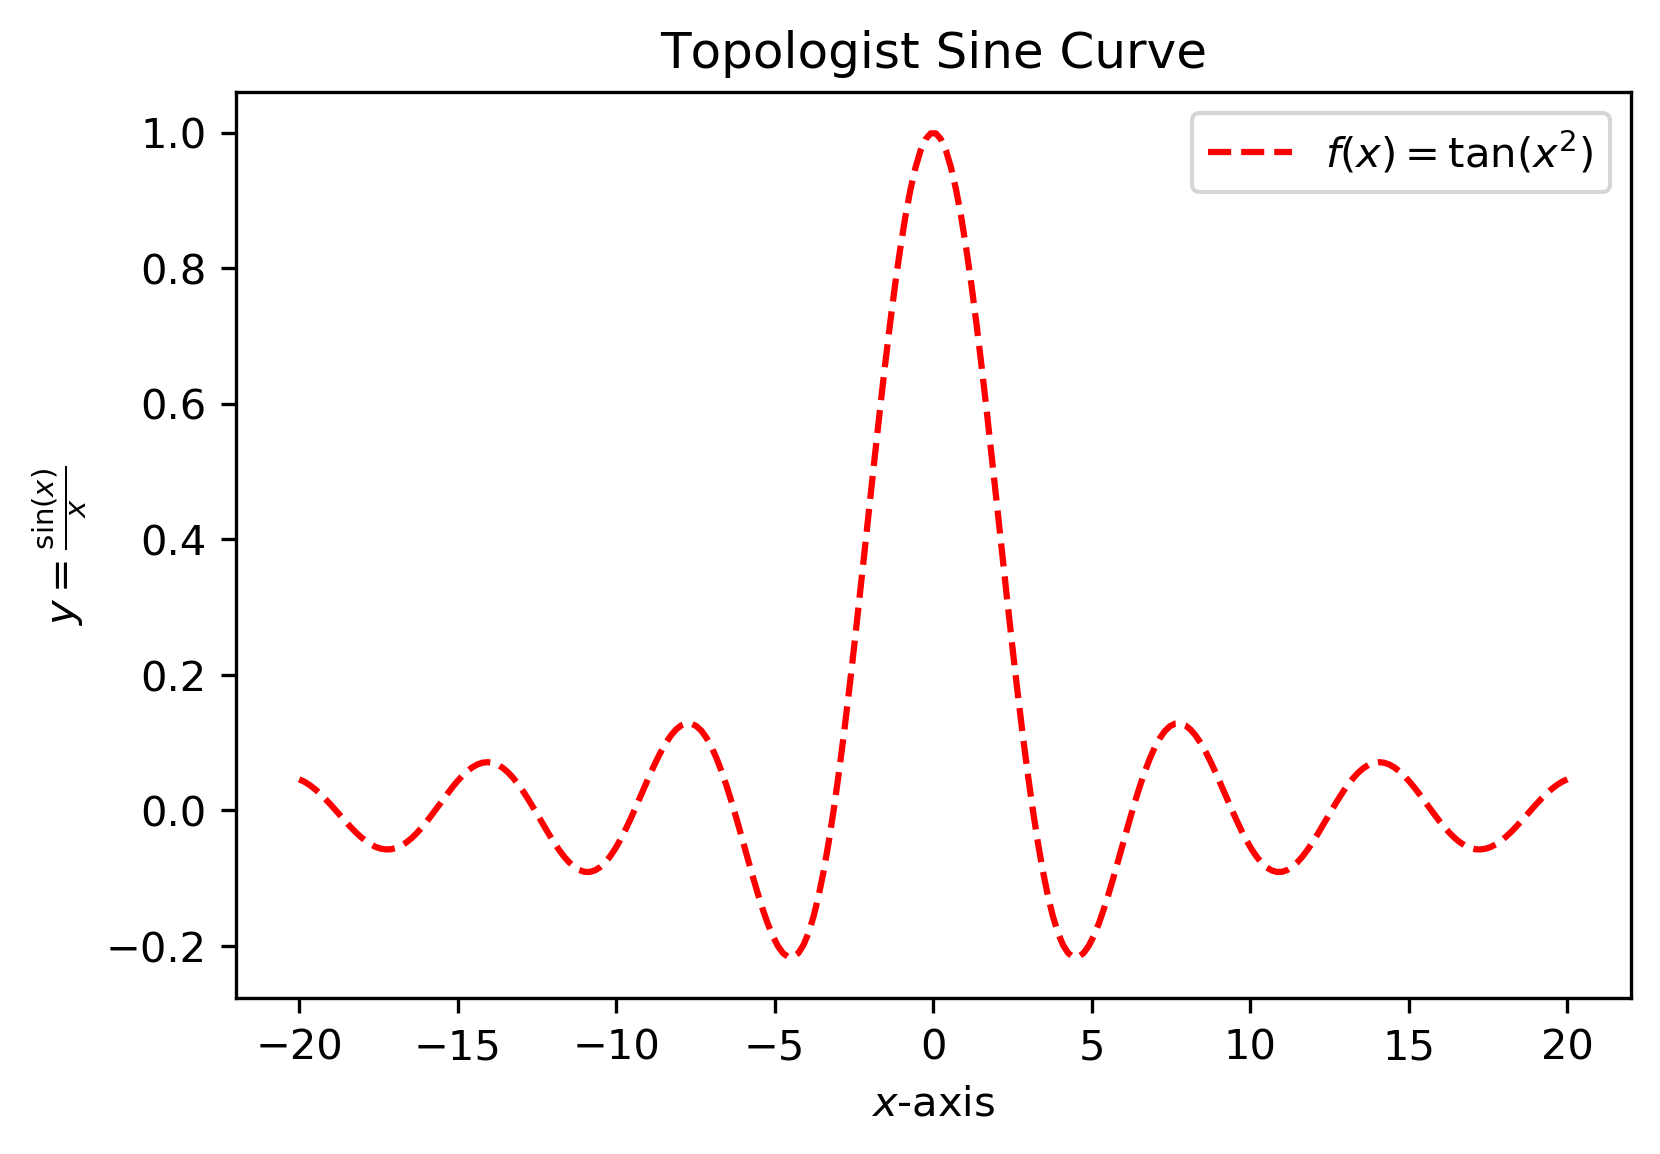
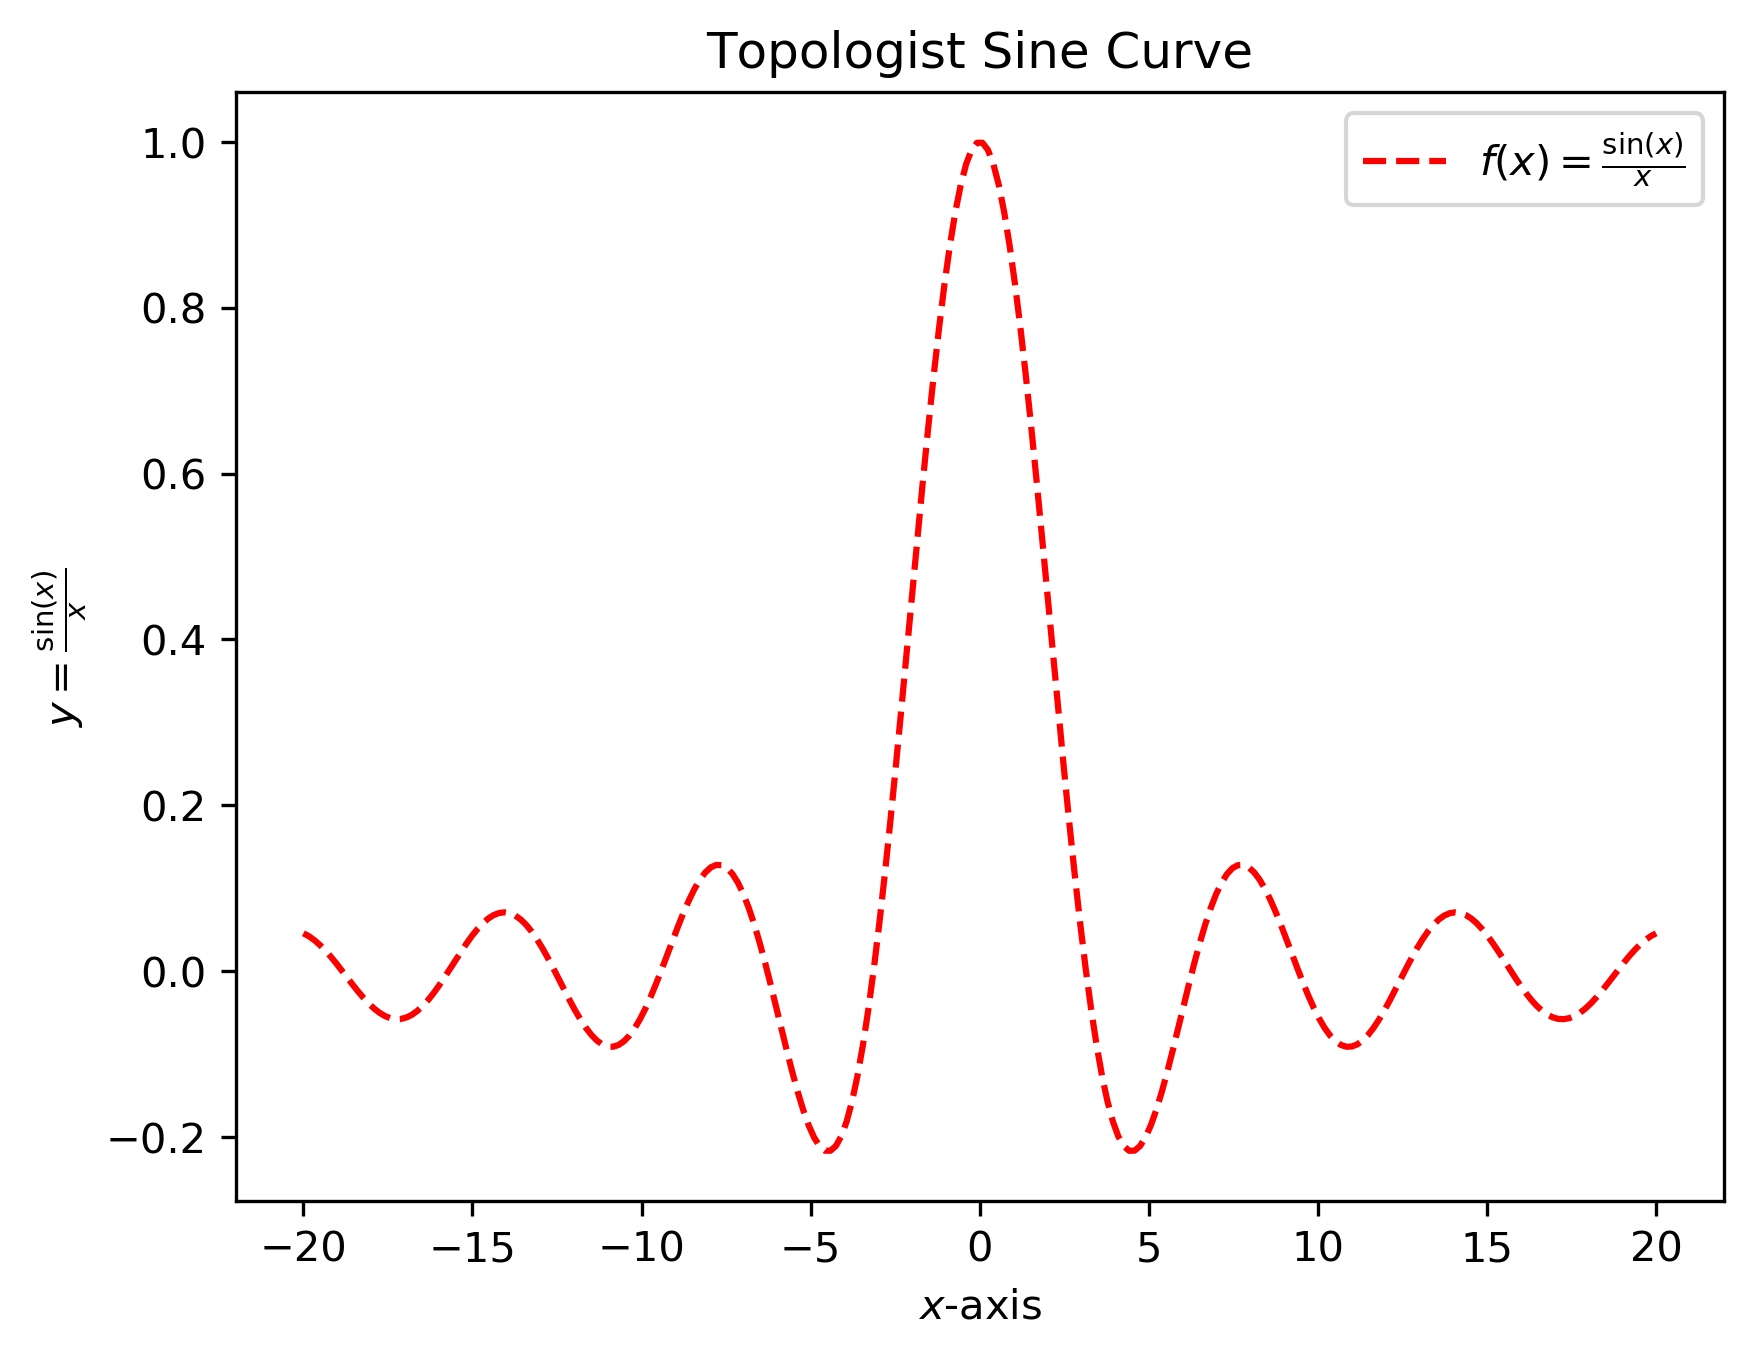
change made.

diff --git a/docs/day1.md b/docs/day1.md
@@ -212,6 +212,29 @@ plt.savefig('/Users/ssuman/Downloads/topologist-sine.png', dpi=300, bbox_inches=
 ## More Things to Explore 
 
 - Multiple plots
+
+  ``` python
+  import numpy as np 
+  import matplotlib.pyplot  as plt
+
+  x=np.linspace(0,2*np.pi,400)
+  a=np.sin(x)
+  b=np.cos(x)
+  c=a+b
+  
+  plt.plot(x,a, label='sin(x)' )
+  plt.plot(x,b, label='cos(x)')
+  plt.plot(x,c, label='sin(x)+cos(x)')
+  plt.xlabel('x-axis', fontsize=20)
+  plt.ylabel('y-axis', fontsize=20)
+  plt.title('MULTIPLE GRAPH' ,fontsize=40)
+  plt.legend()
+  plt.savefig('multiplegraph.png')
+  plt.show()
+  ```
+
+  ![img](./image/multiplegraph.png)
+  
 - Subplots
 
 ## References